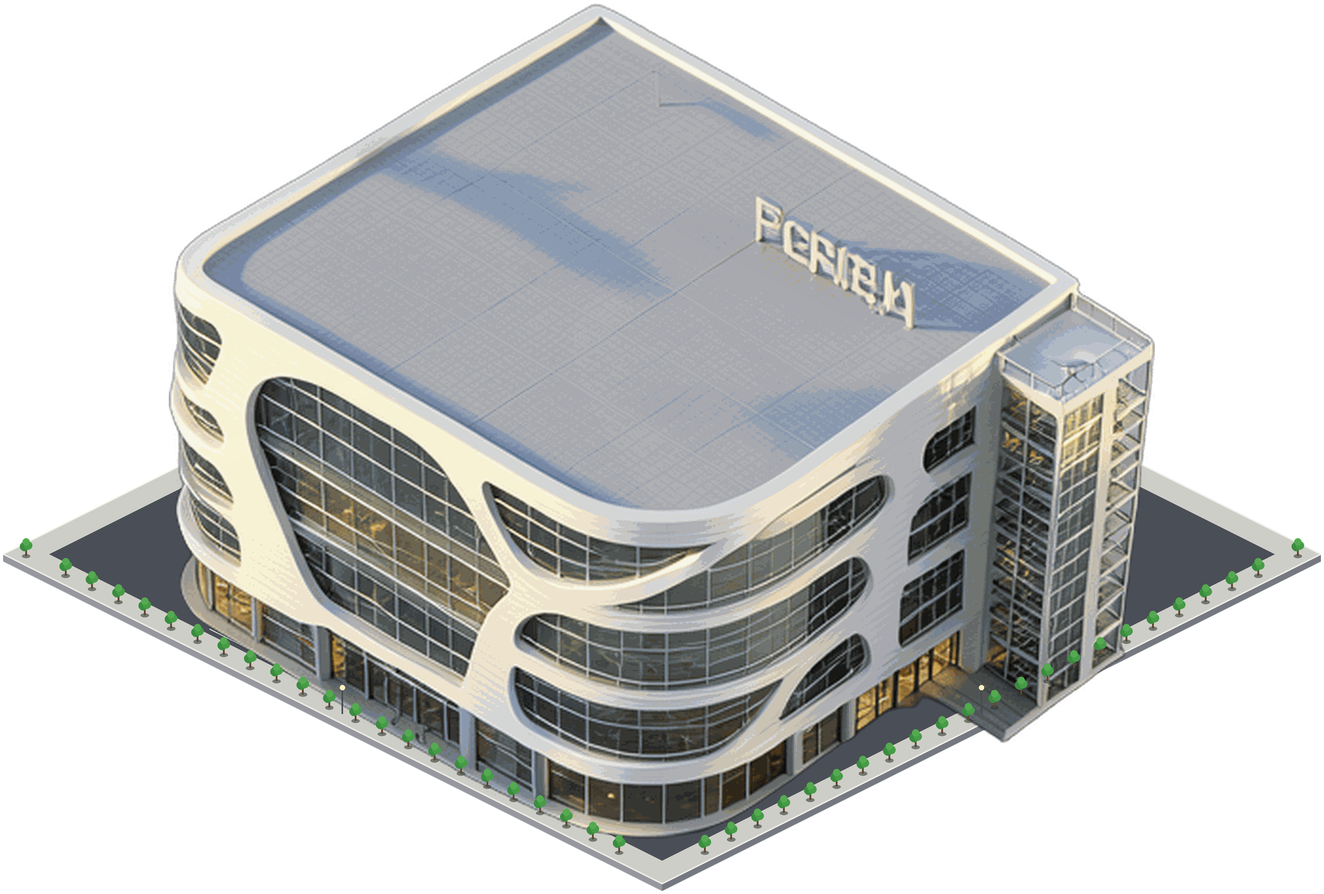
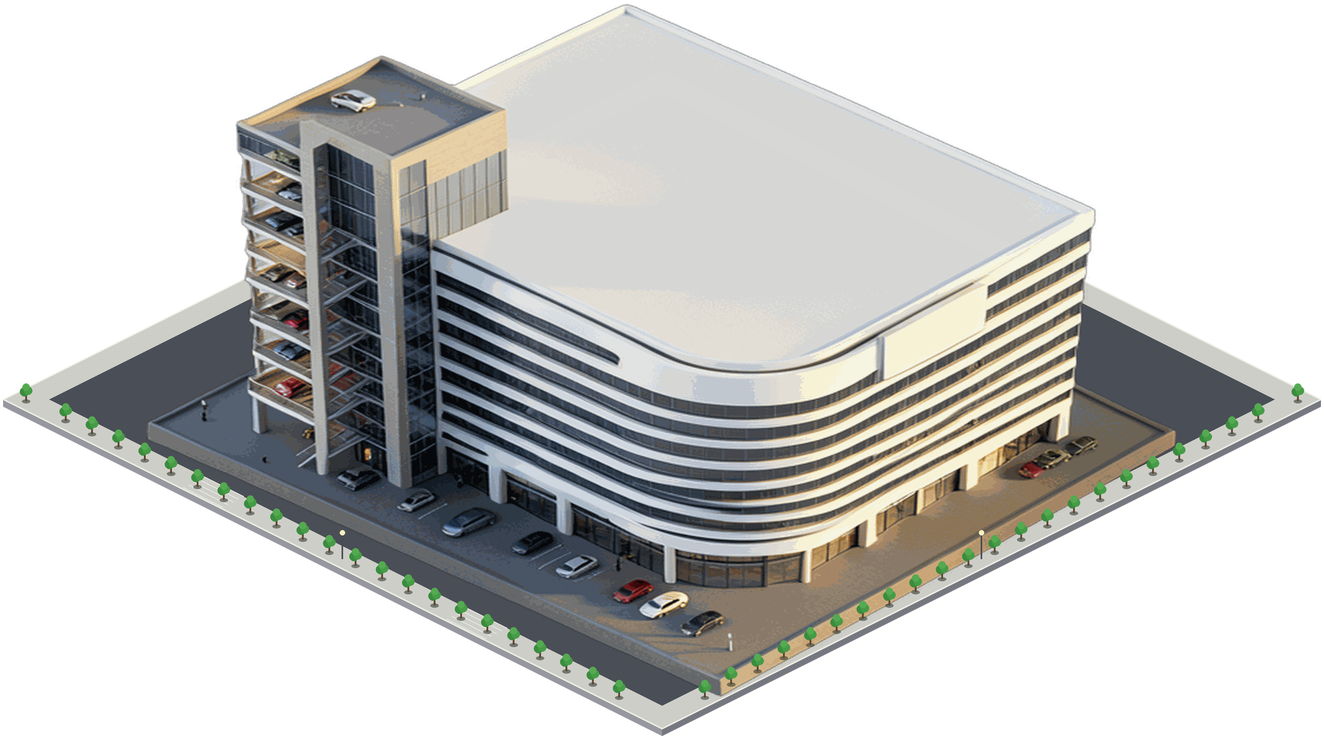
Port (17 sprites), magasins v2 sans texte, pharmacie, immeubles R+6/haussmanniens (candidats)
Claude-Session: https://claude.ai/code/session_01GArnKYW6kkDaRqVDc5pfp5

diff --git a/tools/factory_ai/build_manifest.py b/tools/factory_ai/build_manifest.py
@@ -343,6 +343,57 @@ n('bat_pharmacie', 'pharmacy with a light facade, a glowing green cross symbol, 
 n('bat_maison_deco', 'home furniture and decor store, wide long building, big windows showing sofas lamps and bedding, a sign without readable letters, a single building only, no ground, no road, no fence, nothing around it, only the building itself standing on a flat plain base, realistic detailed 3D render with natural materials, warm afternoon sunlight from the left, strong readable silhouette, seen from high above in isometric view, no readable text, no logo, no flags', largeur=768, contenu=760, lot='lot15')
 n('bat_sport_loisirs', 'sports and leisure store, wide long building, bicycles and tents displayed in front, a big colorful sign without readable letters, a single building only, no ground, no road, no fence, nothing around it, only the building itself standing on a flat plain base, realistic detailed 3D render with natural materials, warm afternoon sunlight from the left, strong readable silhouette, seen from high above in isometric view, no readable text, no logo, no flags', largeur=768, contenu=760, lot='lot15')
 n('bat_mall_moderne', 'large modern architectural shopping mall, sweeping curved glass and white metal facade like a contemporary museum, flowing organic shapes, a glass atrium, no rainbow colors, a rooftop sign without readable letters, a small parking tower beside it, a single building only, no ground, no road, no fence, nothing around it, only the building itself standing on a flat plain base, realistic detailed 3D render with natural materials, warm afternoon sunlight from the left, strong readable silhouette, seen from high above in isometric view, no readable text, no logo, no flags', largeur=1536, contenu=1500, lot='lot15')
+# ---- lot 16 : pharmacie en croix, hopital en H (revue n4)
+n('bat_pharmacie_croix_a', 'pharmacy building whose floor plan is a plus-shaped cross seen from above: a central cube with four short wings, the whole flat roof forms one huge flat muted green cross covering most of the roof, white off-white walls, large open glass shopfront on the front wing with shelves visible, a pedestrian entrance, a single building only, nothing around it, standing on a flat plain base, realistic detailed 3D render, natural materials, warm afternoon sunlight from the left, strong readable silhouette, seen from high above in isometric view, absolutely no text, no letters, no numbers, no logo, no pipes, no conveyor', largeur=768, contenu=760, lot='lot16')
+n('bat_pharmacie_croix_b', 'cross-shaped pharmacy building, plus sign footprint, central tower block with four equal wings, the roof is off-white with a giant inlaid muted green cross spanning the whole roof, big glass windows showing shelves of products, pedestrian entrance with awning, a single building only, nothing around it, standing on a flat plain base, realistic detailed 3D render, natural materials, warm afternoon sunlight from the left, strong readable silhouette, seen from high above in isometric view, absolutely no text, no letters, no numbers, no logo, no pipes, no conveyor', largeur=768, contenu=760, lot='lot16')
+n('bat_pharmacie_croix_c', 'hospital pharmacy with a perfect plus-shaped cross plan, white walls, the roof surface is a large flat green cross, tall glass front, small canopy over the pedestrian door, a single building only, nothing around it, standing on a flat plain base, realistic detailed 3D render, natural materials, warm afternoon sunlight from the left, strong readable silhouette, seen from high above in isometric view, absolutely no text, no letters, no numbers, no logo, no pipes, no conveyor', largeur=768, contenu=760, lot='lot16')
+n('bat_hopital_h_a', 'hospital building with an H-shaped floor plan seen from above: two large parallel wings joined by a central body, light off-white roof with a large marked muted green cross on the central body, rows of windows, a rooftop helipad circle on one wing, glass entrance canopy, a single building only, nothing around it, standing on a flat plain base, realistic detailed 3D render, natural materials, warm afternoon sunlight from the left, strong readable silhouette, seen from high above in isometric view, absolutely no text, no letters, no numbers, no logo, no pipes, no conveyor', largeur=768, contenu=760, lot='lot16')
+n('bat_hopital_h_b', 'large modern hospital with an H-shaped plan, two long parallel wings connected by a central block, white facade with window bands, flat light roof, a big green cross painted on the central roof, ambulance entrance canopy, helipad on one wing, a single building only, nothing around it, standing on a flat plain base, realistic detailed 3D render, natural materials, warm afternoon sunlight from the left, strong readable silhouette, seen from high above in isometric view, absolutely no text, no letters, no numbers, no logo, no pipes, no conveyor', largeur=768, contenu=760, lot='lot16')
+n('bat_hopital_h_c', 'hospital complex with H-shaped plan, two tall parallel wings and a low central connecting block, pale stone and glass facade, roof with a large green cross symbol, entrance plaza canopy, a single building only, nothing around it, standing on a flat plain base, realistic detailed 3D render, natural materials, warm afternoon sunlight from the left, strong readable silhouette, seen from high above in isometric view, absolutely no text, no letters, no numbers, no logo, no pipes, no conveyor', largeur=768, contenu=760, lot='lot16')
+# ---- lot 17 : port (revue Rémy)
+n('port_portique_quai', 'ship-to-shore container gantry crane with four legs standing at a quay edge, long horizontal boom extending out over the water, steel truss structure, grey and light blue, an operator cabin, single object, isolated on a plain neutral background, realistic detailed 3D render, natural materials, warm afternoon sunlight from the left, seen from high above in isometric view, absolutely no text, no letters, no numbers, no logo, no markings', largeur=1024, contenu=1000, lot='lot17')
+n('port_cavalier_straddle', 'straddle carrier port vehicle lifting a container, yellow and grey, big wheels, single object, isolated on a plain neutral background, realistic detailed 3D render, natural materials, warm afternoon sunlight from the left, seen from high above in isometric view, absolutely no text, no letters, no numbers, no logo, no markings', largeur=512, contenu=420, lot='lot17')
+n('port_reach_stacker', 'container reach stacker truck holding a container in the air, orange and grey, single object, isolated on a plain neutral background, realistic detailed 3D render, natural materials, warm afternoon sunlight from the left, seen from high above in isometric view, absolutely no text, no letters, no numbers, no logo, no markings', largeur=512, contenu=420, lot='lot17')
+n('port_piles_conteneurs_a', 'large block of stacked shipping containers, five by three stack, many muted colors red blue green orange grey, plain panels without any markings, single object, isolated on a plain neutral background, realistic detailed 3D render, natural materials, warm afternoon sunlight from the left, seen from high above in isometric view, absolutely no text, no letters, no numbers, no logo, no markings', largeur=768, contenu=640, lot='lot17')
+n('port_piles_conteneurs_b', 'two long rows of stacked shipping containers, four levels high, muted blue grey and rust red colors, plain walls without markings, single object, isolated on a plain neutral background, realistic detailed 3D render, natural materials, warm afternoon sunlight from the left, seen from high above in isometric view, absolutely no text, no letters, no numbers, no logo, no markings', largeur=768, contenu=640, lot='lot17')
+n('port_entrepot_a', 'long port warehouse with a curved corrugated roof, big sliding doors, concrete loading dock, grey and blue, single object, isolated on a plain neutral background, realistic detailed 3D render, natural materials, warm afternoon sunlight from the left, seen from high above in isometric view, absolutely no text, no letters, no numbers, no logo, no markings', largeur=768, contenu=600, lot='lot17')
+n('port_terminal_vrac', 'bulk cargo terminal with a conveyor belt gallery, a hopper and a pile of coal, industrial port structure, grey steel, single object, isolated on a plain neutral background, realistic detailed 3D render, natural materials, warm afternoon sunlight from the left, seen from high above in isometric view, absolutely no text, no letters, no numbers, no logo, no markings', largeur=768, contenu=600, lot='lot17')
+n('port_reservoirs', 'cluster of four white cylindrical oil storage tanks with pipes and a catwalk, port tank farm, single object, isolated on a plain neutral background, realistic detailed 3D render, natural materials, warm afternoon sunlight from the left, seen from high above in isometric view, absolutely no text, no letters, no numbers, no logo, no markings', largeur=768, contenu=600, lot='lot17')
+n('port_phare', 'small harbor lighthouse tower, white with a red band, on a stone base, single object, isolated on a plain neutral background, realistic detailed 3D render, natural materials, warm afternoon sunlight from the left, seen from high above in isometric view, absolutely no text, no letters, no numbers, no logo, no markings', largeur=384, contenu=520, lot='lot17')
+n('port_remorqueur_ne', 'tugboat, red hull and white superstructure, heading to the upper right, bow pointing northeast, single object, isolated on a plain neutral background, realistic detailed 3D render, natural materials, warm afternoon sunlight from the left, seen from high above in isometric view, absolutely no text, no letters, no numbers, no logo, no markings', largeur=768, contenu=420, lot='lot17')
+n('port_navire_cargo_ne', 'large container cargo ship loaded with colorful plain containers, dark blue hull, bow pointing to the upper right (northeast) in isometric view, single object, isolated on a plain neutral background, realistic detailed 3D render, natural materials, warm afternoon sunlight from the left, seen from high above in isometric view, absolutely no text, no letters, no numbers, no logo, no markings', largeur=1280, contenu=640, lot='lot17')
+n('port_navire_cargo_se', 'large container cargo ship loaded with colorful plain containers, dark blue hull, bow pointing to the lower right (southeast) in isometric view, single object, isolated on a plain neutral background, realistic detailed 3D render, natural materials, warm afternoon sunlight from the left, seen from high above in isometric view, absolutely no text, no letters, no numbers, no logo, no markings', largeur=1280, contenu=640, lot='lot17')
+n('port_navire_petrolier', 'oil tanker ship, long flat deck with pipes, red hull and white cabin at the stern, bow pointing to the upper right (northeast), single object, isolated on a plain neutral background, realistic detailed 3D render, natural materials, warm afternoon sunlight from the left, seen from high above in isometric view, absolutely no text, no letters, no numbers, no logo, no markings', largeur=1280, contenu=560, lot='lot17')
+n('port_navire_vraquier', 'bulk carrier ship with large hatch covers, green hull, white cabin at the stern, bow pointing to the upper right (northeast), single object, isolated on a plain neutral background, realistic detailed 3D render, natural materials, warm afternoon sunlight from the left, seen from high above in isometric view, absolutely no text, no letters, no numbers, no logo, no markings', largeur=1280, contenu=560, lot='lot17')
+n('port_ferry', 'passenger ferry ship, white hull with several decks and a blue stripe, bow pointing to the upper right (northeast), single object, isolated on a plain neutral background, realistic detailed 3D render, natural materials, warm afternoon sunlight from the left, seen from high above in isometric view, absolutely no text, no letters, no numbers, no logo, no markings', largeur=1024, contenu=480, lot='lot17')
+n('port_bateau_peche', 'small fishing boat with a cabin and nets, blue and white, bow pointing to the upper right (northeast), single object, isolated on a plain neutral background, realistic detailed 3D render, natural materials, warm afternoon sunlight from the left, seen from high above in isometric view, absolutely no text, no letters, no numbers, no logo, no markings', largeur=512, contenu=360, lot='lot17')
+n('port_voilier', 'white sailing yacht with sails up, bow pointing to the upper right (northeast), single object, isolated on a plain neutral background, realistic detailed 3D render, natural materials, warm afternoon sunlight from the left, seen from high above in isometric view, absolutely no text, no letters, no numbers, no logo, no markings', largeur=512, contenu=520, lot='lot17')
+# ---- lot 18 : hopital en H (aile/corps) et magasins v2 sans texte
+n('bat_hopital_aile_a', 'one long rectangular hospital wing, five floors, off-white facade with continuous window bands, flat light roof, plain, long along one axis, a single building only, no ground, nothing around it, standing on a flat plain base, realistic detailed 3D render, natural materials, warm afternoon sunlight from the left, strong readable silhouette, seen from high above in isometric view, absolutely no text, no letters, no numbers, no logo, no pipes, no conveyor, plain blank sign panels', largeur=768, contenu=700, lot='lot18')
+n('bat_hopital_aile_b', 'one long rectangular hospital wing, four floors, pale stone and glass, flat roof with a helipad circle, long along one axis, a single building only, no ground, nothing around it, standing on a flat plain base, realistic detailed 3D render, natural materials, warm afternoon sunlight from the left, strong readable silhouette, seen from high above in isometric view, absolutely no text, no letters, no numbers, no logo, no pipes, no conveyor, plain blank sign panels', largeur=768, contenu=700, lot='lot18')
+n('bat_hopital_corps', 'low glass central lobby block of a hospital, two floors, glass entrance canopy, light roof, a single building only, no ground, nothing around it, standing on a flat plain base, realistic detailed 3D render, natural materials, warm afternoon sunlight from the left, strong readable silhouette, seen from high above in isometric view, absolutely no text, no letters, no numbers, no logo, no pipes, no conveyor, plain blank sign panels', largeur=512, contenu=420, lot='lot18')
+n('bat_concession_auto_v2', 'car dealership with a huge glass showroom showing several cars inside, a real car displayed on a stone plinth on the roof as an emblem, a blank sign band, wide car forecourt full of cars, a single building only, no ground, nothing around it, standing on a flat plain base, realistic detailed 3D render, natural materials, warm afternoon sunlight from the left, strong readable silhouette, seen from high above in isometric view, absolutely no text, no letters, no numbers, no logo, no pipes, no conveyor, plain blank sign panels', largeur=768, contenu=760, lot='lot18')
+n('bat_boutique_high_tech_v2', 'minimalist electronics flagship store, large open glass facade showing display tables with laptops and phones, a huge blank glowing screen panel on the roof, light wood and white, a single building only, no ground, nothing around it, standing on a flat plain base, realistic detailed 3D render, natural materials, warm afternoon sunlight from the left, strong readable silhouette, seen from high above in isometric view, absolutely no text, no letters, no numbers, no logo, no pipes, no conveyor, plain blank sign panels', largeur=512, contenu=500, lot='lot18')
+n('bat_sport_loisirs_v2', 'sports store with open glass front showing racks of sports gear, a giant sculpture of a cyclist silhouette on the roof, bicycles and tents in front, a blank sign band with a single orange accent, building filling the plot, a single building only, no ground, nothing around it, standing on a flat plain base, realistic detailed 3D render, natural materials, warm afternoon sunlight from the left, strong readable silhouette, seen from high above in isometric view, absolutely no text, no letters, no numbers, no logo, no pipes, no conveyor, plain blank sign panels', largeur=768, contenu=760, lot='lot18')
+n('bat_maison_deco_v2', 'home decor and furniture store, wide glass front showing sofas and lamps, a giant chandelier sculpture on the roof, blank sign band, building filling the plot, a single building only, no ground, nothing around it, standing on a flat plain base, realistic detailed 3D render, natural materials, warm afternoon sunlight from the left, strong readable silhouette, seen from high above in isometric view, absolutely no text, no letters, no numbers, no logo, no pipes, no conveyor, plain blank sign panels', largeur=768, contenu=760, lot='lot18')
+n('bat_boutique_mode_luxe_v2', 'haute couture boutique, open display windows with elegant mannequins, a tall gold fashion mannequin statue on the roof, black and gold facade, blank sign band, a single building only, no ground, nothing around it, standing on a flat plain base, realistic detailed 3D render, natural materials, warm afternoon sunlight from the left, strong readable silhouette, seen from high above in isometric view, absolutely no text, no letters, no numbers, no logo, no pipes, no conveyor, plain blank sign panels', largeur=512, contenu=500, lot='lot18')
+n('bat_mall_moderne_v2', 'huge modern architectural shopping mall as one single coherent volume with consistent isometric edges, flowing curved white bands and glass, a multi-storey parking tower attached on the left with ramps and cars, a blank sign band, very wide, a single building only, no ground, nothing around it, standing on a flat plain base, realistic detailed 3D render, natural materials, warm afternoon sunlight from the left, strong readable silhouette, seen from high above in isometric view, absolutely no text, no letters, no numbers, no logo, no pipes, no conveyor, plain blank sign panels', largeur=1792, contenu=1500, lot='lot18')
+# ---- lot 19 : immeubles residentiels R+6 europeens
+n('bat_immeuble_r6_haussmann', 'six storey European apartment building R+6 in classic Haussmann style, white cream limestone facade with moldings and cornices, black wrought iron balconies on every floor, tall french windows, a stately entrance with columns and a small pediment, zinc mansard roof, a single residential building only, no ground, nothing around it, standing on a flat plain base, realistic detailed 3D render, natural materials, warm afternoon sunlight from the left, seen from high above in isometric view, absolutely no text, no letters, no numbers, no logo', largeur=768, contenu=760, lot='lot19')
+n('bat_immeuble_r6_neoclassique', 'six storey white neoclassical apartment building, ornate plaster moldings, black ornamental balcony railings, large windows with warm lit interiors, wooden brown ground floor base, flat roof with a stepped cornice, a single residential building only, no ground, nothing around it, standing on a flat plain base, realistic detailed 3D render, natural materials, warm afternoon sunlight from the left, seen from high above in isometric view, absolutely no text, no letters, no numbers, no logo', largeur=768, contenu=760, lot='lot19')
+n('bat_immeuble_r6_moderne_blanc', 'modern six storey French apartment building, white rendered volumes with deep balconies and dark grey perforated metal railings, large glazed doors, roof terrace on top with planters, shrubs and a parasol, stepped upper floor, a single residential building only, no ground, nothing around it, standing on a flat plain base, realistic detailed 3D render, natural materials, warm afternoon sunlight from the left, seen from high above in isometric view, absolutely no text, no letters, no numbers, no logo', largeur=768, contenu=760, lot='lot19')
+n('bat_immeuble_r6_moderne_bois', 'contemporary six storey residential block, white facade with timber cladding accents, balconies with dark railings, balcony plants, setback top floor with a green roof terrace, a single residential building only, no ground, nothing around it, standing on a flat plain base, realistic detailed 3D render, natural materials, warm afternoon sunlight from the left, seen from high above in isometric view, absolutely no text, no letters, no numbers, no logo', largeur=768, contenu=760, lot='lot19')
+n('bat_immeuble_r6_brique', 'six storey European brick apartment building, red-brown brick facade with white window frames, small iron balconies, stone base, flat roof with chimney stacks, a single residential building only, no ground, nothing around it, standing on a flat plain base, realistic detailed 3D render, natural materials, warm afternoon sunlight from the left, seen from high above in isometric view, absolutely no text, no letters, no numbers, no logo', largeur=768, contenu=760, lot='lot19')
+n('bat_immeuble_r6_residence_jardin', 'six storey residential complex in an L shape, white facade, many balconies with dark railings and potted plants, a top floor terrace with trees, low garden hedges at the base, a single residential building only, no ground, nothing around it, standing on a flat plain base, realistic detailed 3D render, natural materials, warm afternoon sunlight from the left, seen from high above in isometric view, absolutely no text, no letters, no numbers, no logo', largeur=768, contenu=760, lot='lot19')
+n('bat_immeuble_r6_angle_commerce', 'six storey corner apartment building with shops on the ground floor and open shopfronts, white facade, black balconies, rounded corner turret, zinc roof, a single residential building only, no ground, nothing around it, standing on a flat plain base, realistic detailed 3D render, natural materials, warm afternoon sunlight from the left, seen from high above in isometric view, absolutely no text, no letters, no numbers, no logo', largeur=768, contenu=760, lot='lot19')
+n('bat_immeuble_r6_social', 'six storey European social housing block, light grey and pastel yellow facade, regular rows of windows with small balconies, flat roof, simple plain volumes, a single residential building only, no ground, nothing around it, standing on a flat plain base, realistic detailed 3D render, natural materials, warm afternoon sunlight from the left, seen from high above in isometric view, absolutely no text, no letters, no numbers, no logo', largeur=768, contenu=760, lot='lot19')
+# ---- lot 20 : immeubles haussmanniens
+n('bat_immeuble_haussmann_b', 'six storey Parisian Haussmann apartment building, pale cream limestone, continuous wrought iron balconies on the second and fifth floors, tall french windows with stone surrounds, grey zinc mansard roof with dormer windows and chimneys, carriage entrance with a heavy wooden door, a single residential building only, no ground, nothing around it, standing on a flat plain base, realistic detailed 3D render, natural materials, warm afternoon sunlight from the left, seen from high above in isometric view, absolutely no text, no letters, no numbers, no logo', largeur=768, contenu=760, lot='lot20')
+n('bat_immeuble_haussmann_c', 'six storey Parisian Haussmann apartment building, white limestone with rusticated ground floor, black balcony railings on every floor, ornate carved window pediments, steep slate mansard roof with round dormers, a single residential building only, no ground, nothing around it, standing on a flat plain base, realistic detailed 3D render, natural materials, warm afternoon sunlight from the left, seen from high above in isometric view, absolutely no text, no letters, no numbers, no logo', largeur=768, contenu=760, lot='lot20')
+n('bat_immeuble_haussmann_d', 'six storey Parisian Haussmann apartment building, warm sand-colored stone, rounded corner bay with a conical zinc turret, balconies with dark railings, ground floor with open shopfronts and awnings, a single residential building only, no ground, nothing around it, standing on a flat plain base, realistic detailed 3D render, natural materials, warm afternoon sunlight from the left, seen from high above in isometric view, absolutely no text, no letters, no numbers, no logo', largeur=768, contenu=760, lot='lot20')
+n('bat_immeuble_haussmann_e', 'six storey Parisian Haussmann apartment building, light grey stone, long facade with wrought iron balconies, mansard roof with copper dormers, a small courtyard gate, potted trees by the entrance, a single residential building only, no ground, nothing around it, standing on a flat plain base, realistic detailed 3D render, natural materials, warm afternoon sunlight from the left, seen from high above in isometric view, absolutely no text, no letters, no numbers, no logo', largeur=768, contenu=760, lot='lot20')
+n('bat_immeuble_haussmann_f', 'six storey Parisian Haussmann apartment building, cream stone with brick-red accents, narrow tall proportions, carved cornices, black balconies on the third and fifth floors, slate mansard roof, a single residential building only, no ground, nothing around it, standing on a flat plain base, realistic detailed 3D render, natural materials, warm afternoon sunlight from the left, seen from high above in isometric view, absolutely no text, no letters, no numbers, no logo', largeur=768, contenu=760, lot='lot20')
+n('bat_immeuble_haussmann_g', 'six storey Parisian Haussmann apartment building, white stone, wide facade with a central projecting bay and pediment, ornate iron balconies, grand double door entrance, zinc mansard roof with many dormers, a single residential building only, no ground, nothing around it, standing on a flat plain base, realistic detailed 3D render, natural materials, warm afternoon sunlight from the left, seen from high above in isometric view, absolutely no text, no letters, no numbers, no logo', largeur=768, contenu=760, lot='lot20')
 json.dump({'sprites': M, 'planches': PLANCHES,
            'test': ['camion_rouge_ouvert', 'machine_assemblage', 'poses/ouvrier_gilet_orange_porte_carton']},
           open(os.path.join(ICI, 'manifest.json'), 'w'), indent=1, ensure_ascii=False)

diff --git a/tools/factory_ai/RETOURS.md b/tools/factory_ai/RETOURS.md
@@ -156,3 +156,11 @@ Livrés dans assets/factory_hd (parcelle 2:1, marge 6 px, QA asset_qa : pente 0,
 - mall_central (10×10, 2572×1665, emprise 10, style MBK Bangkok ; passerelle, tour parking, étals) et mall_central_moderne (10×10, rendu architectural sans arc-en-ciel, alternative à la version calculée par le jeu). `mall_central_nuit` : pas encore.
 - Sources bat_* conservées. Pas encore produits : niveaux _n2/_n3 de boutique_mode/boulangerie/cafe_de_quartier, scènes 1920×1080, avatars, n3, vignettes.
 - Ombres (ombres/*.png) non poussées pour ce lot, à régénérer si nécessaire.
+
+## Producteur — réponse à la revue n°4 et nouveaux lots (19 nov.)
+- **Instruction « aucun texte »** appliquée à tout ce lot : aucune lettre ni logo. Enseignes = bandeaux unis.
+- **Pharmacie** refaite : cube blanc, immense croix verte incrustée sur le toit, vitrines à rayons, entrée piétonne (FLUX ne produit pas de vrai plan en croix, la croix est sur le toit). Aucun tuyau/convoyeur.
+- **Magasins v2 sans texte et avec emblème de toit** : concession_auto (voiture sur socle, grand parking de voitures), boutique_high_tech (grand panneau vide), boutique_mode_luxe (mannequin doré), maison_deco (lustre géant), sport_loisirs (cycliste géant, un seul accent orange), mall_central_moderne (un seul volume, tour de parking à rampes). Vitrines ouvertes, intérieurs lisibles.
+- **Hôpital en H : PAS livré.** Les 3 essais + 2 ailes sortent en L, pas en H. Source disponible : bat_hopital_aile_a/b, bat_hopital_corps (locales). Piste : composer deux ailes parallèles reliées par un corps ; à valider.
+- **Port** (nouveau, dans factory_hd, sans texte) : port_portique_quai, port_cavalier_straddle, port_reach_stacker, port_piles_conteneurs_a/b, port_entrepot_a, port_terminal_vrac, port_reservoirs, port_phare, port_remorqueur_ne, port_navire_cargo_ne/se, port_navire_petrolier, port_navire_vraquier, port_ferry, port_bateau_peche, port_voilier. Navires orientés vers le haut-droite (NE) ou bas-droite (SE) ; autres angles par miroir.
+- **Immeubles R+6 européens** (candidats, `assets/factory_hd_candidats/`) : 6 haussmanniens (b à g), immeuble_r6_haussmann, neoclassique, moderne_blanc (toit-terrasse), moderne_bois, brique, residence_jardin, angle_commerce, social.
